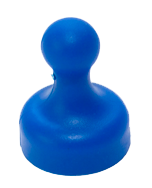
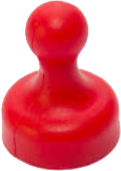
Dodane pionki z texturami

diff --git a/Silnik_3D/BitmapHandler.cpp b/Silnik_3D/BitmapHandler.cpp
@@ -1,8 +1,8 @@
 #include "BitmapHandler.h"
 
 BitmapHandler::BitmapHandler()
-    : texture1(0), texture2(0), texture3(0), texture4(0), texture5(0), texture6(0), texture7(0), texture_pionek(0), textureWidth(0), textureHeight(0), 
-    isTextureLoaded_1(false), isTextureLoaded_2(false), isTextureLoaded_3(false), isTextureLoaded_4(false), isTextureLoaded_5(false), isTextureLoaded_6(false), isTextureLoaded_7(false), isTextureLoaded_pionek(false) {
+    : texture1(0), texture2(0), texture3(0), texture4(0), texture5(0), texture6(0), texture7(0), texture_pionek(0), texture_pionek2(0), textureWidth(0), textureHeight(0),
+    isTextureLoaded_1(false), isTextureLoaded_2(false), isTextureLoaded_3(false), isTextureLoaded_4(false), isTextureLoaded_5(false), isTextureLoaded_6(false), isTextureLoaded_7(false), isTextureLoaded_pionek(false), isTextureLoaded_pionek2(false) {
    
 }
 
@@ -30,6 +30,9 @@ BitmapHandler::~BitmapHandler() {
     }
     if (isTextureLoaded_pionek) {
         glDeleteTextures(1, &texture_pionek);
+    }
+    if (isTextureLoaded_pionek2) {
+        glDeleteTextures(1, &texture_pionek2);
     }
  
 }
@@ -252,7 +255,7 @@ void BitmapHandler::drawPionek2(float x, float y, float width, float height) {
 
     glDisable(GL_DEPTH_TEST);
     glEnable(GL_TEXTURE_2D);
-    glBindTexture(GL_TEXTURE_2D, texture_pionek);
+    glBindTexture(GL_TEXTURE_2D, texture_pionek2);
 
     // Rysowanie samej tekstury pionka
     glBegin(GL_QUADS);
